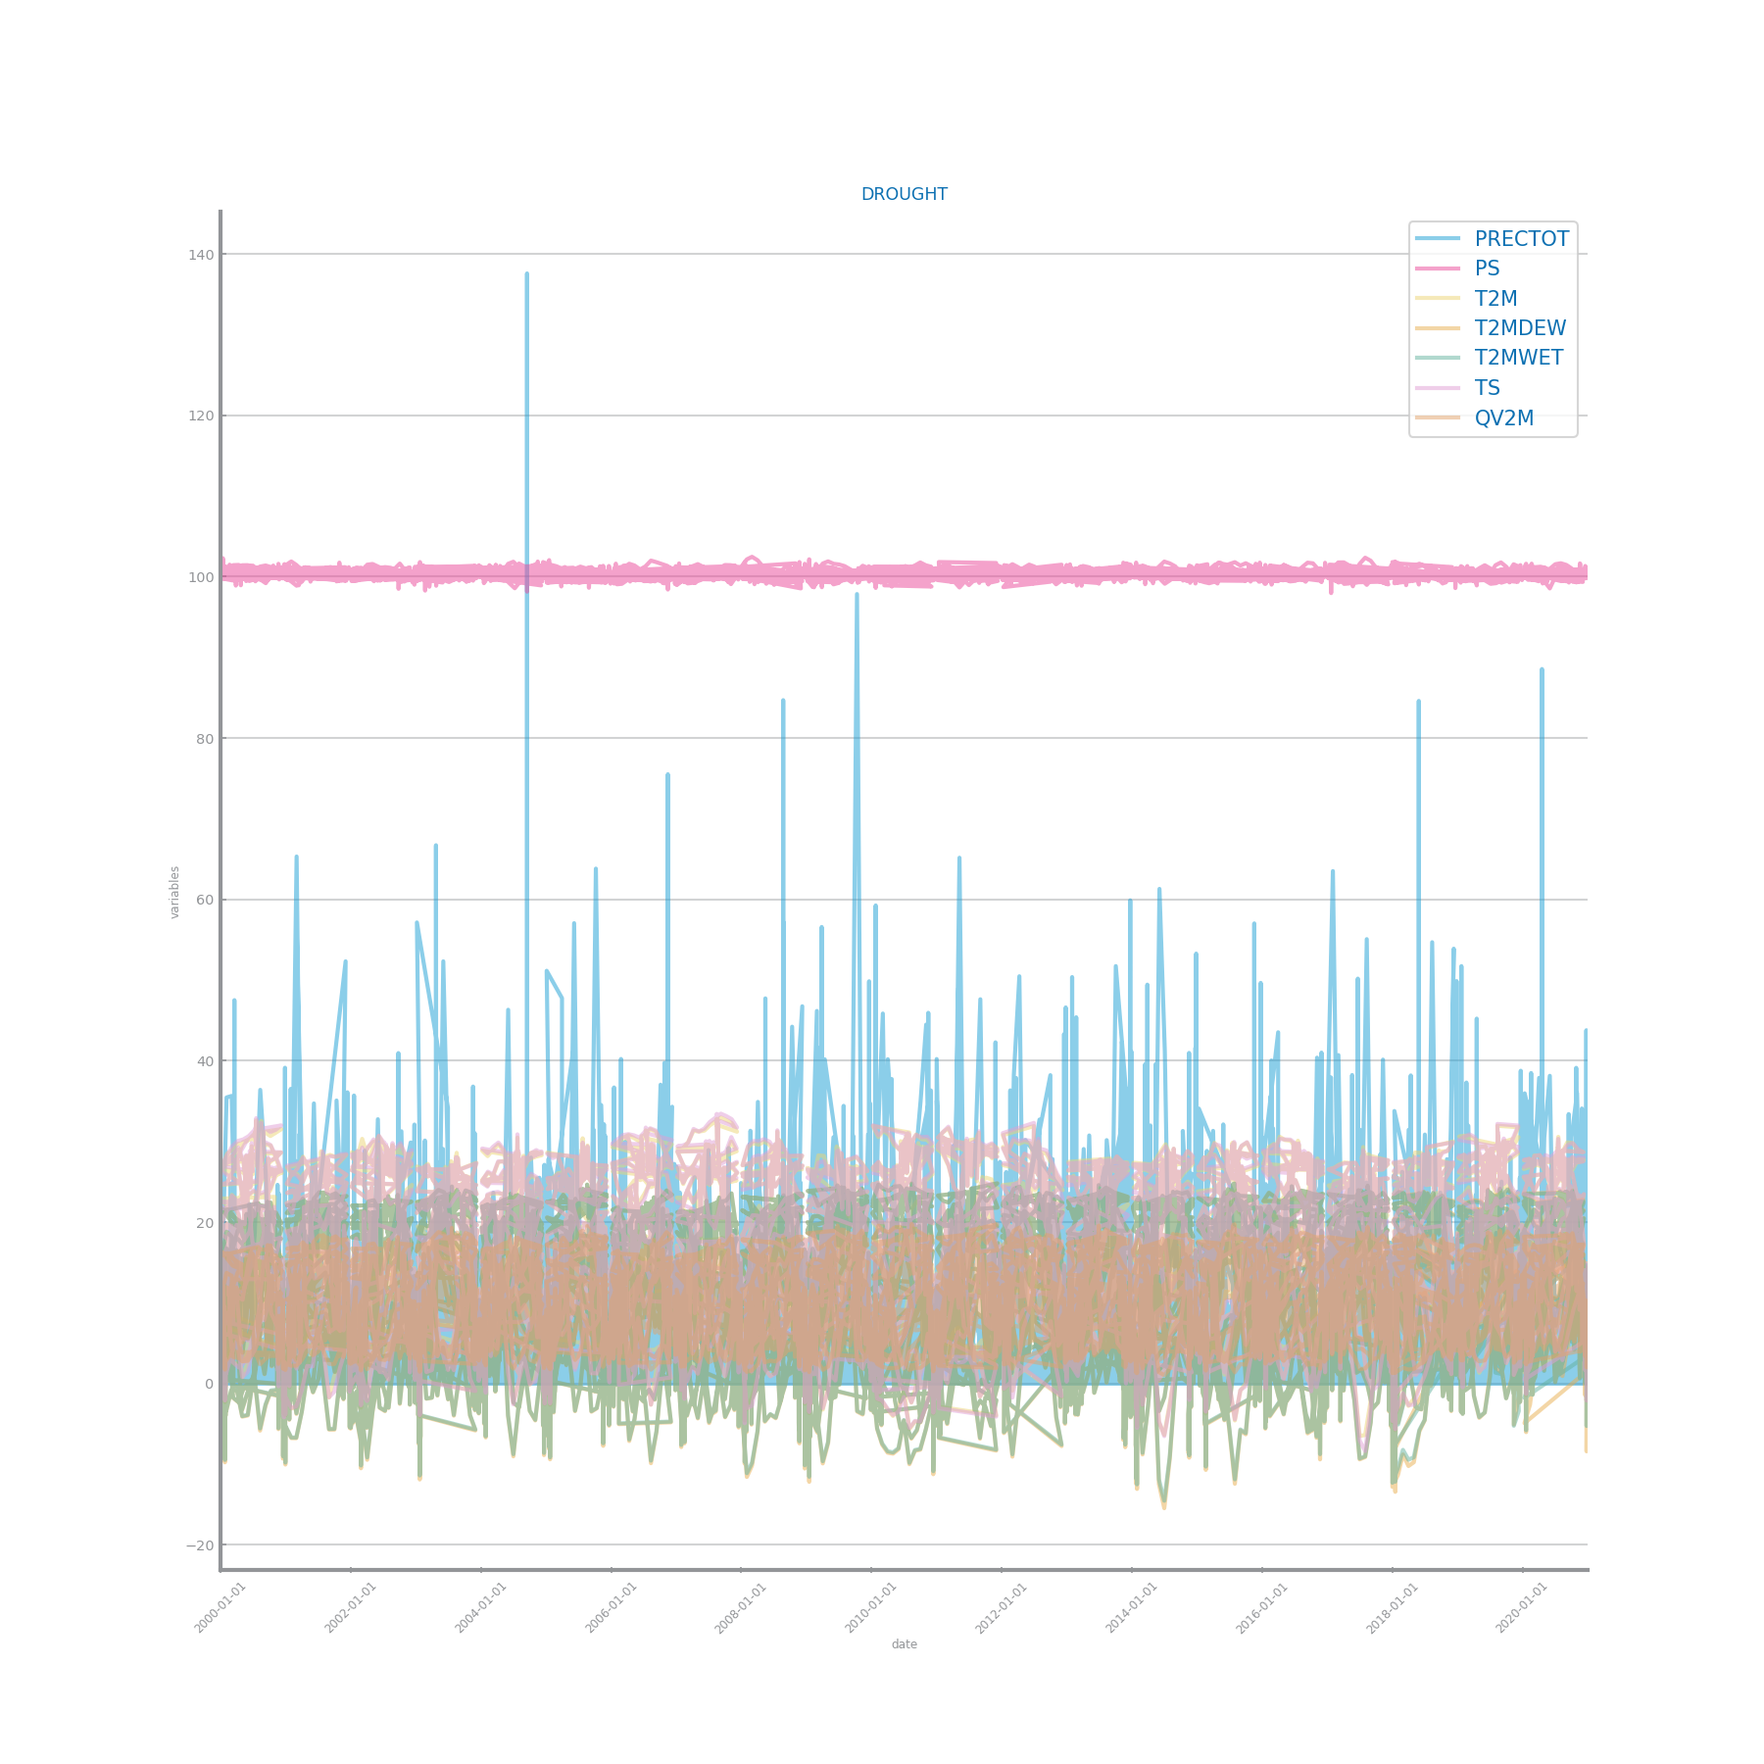
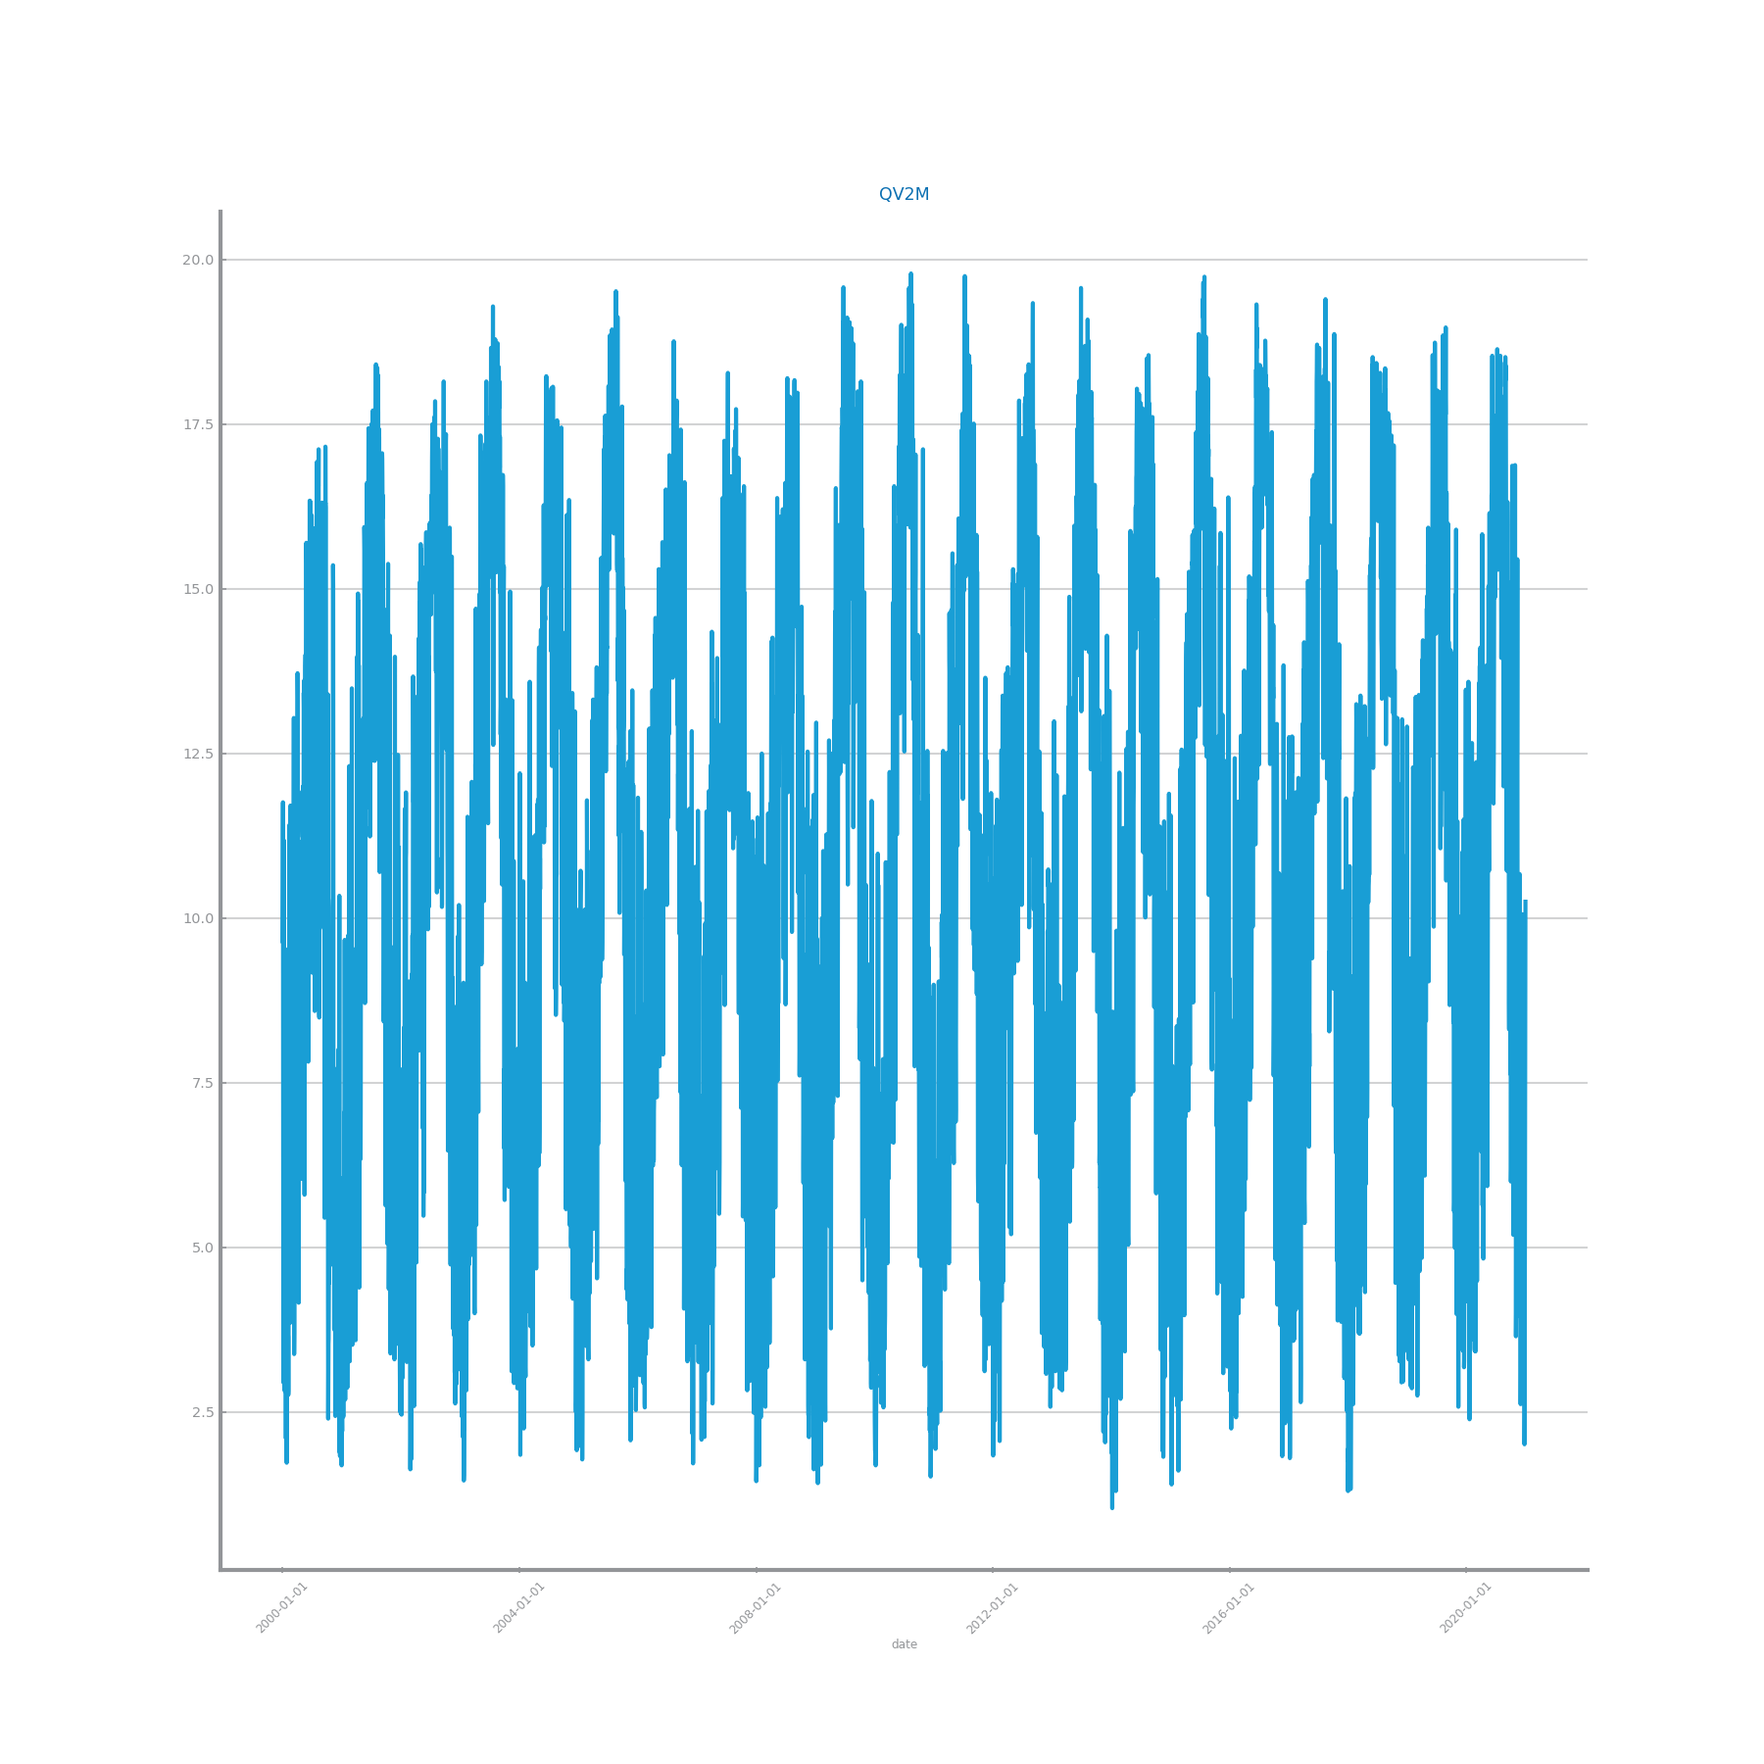
Started smoothing

diff --git a/health-forecasting/src/profiling/profiling.py b/health-forecasting/src/profiling/profiling.py
@@ -1,13 +1,18 @@
-from matplotlib import legend
 import pandas as pd
-from matplotlib.pyplot import figure, xticks, savefig, subplots, show
+from matplotlib.pyplot import figure, xticks, savefig, subplots
 from ts_functions import plot_series_multivariate, HEIGHT, plot_series
-from numpy import ones
 
 class Profiler:
 
   def __init__(self, data: pd.DataFrame) -> None:
     self.data = data
+
+    self.data = self.data.drop(columns=['Insulin'])	
+
+    index = self.data.index.to_period('D')
+    self.daily_df = self.data.copy().groupby(index).mean()
+    self.daily_df['date'] = index.drop_duplicates().to_timestamp()
+    self.daily_df.set_index('date', drop=True, inplace=True)
 
     index = self.data.index.to_period('W')
     self.week_df = self.data.copy().groupby(index).mean()
@@ -27,11 +32,11 @@ class Profiler:
 
   def explore_dimensionality(self):
     figure(figsize=(3*HEIGHT, 3*HEIGHT))
-    plot_series_multivariate(self.data, x_label='date', y_label='values', title='DROUGHT')
+    plot_series_multivariate(self.data, x_label='Time', title='Glucose')
     xticks(rotation = 45)
-    savefig('climate-forecasting/records/profiling/distribution.png')
+    savefig('health-forecasting/records/profiling/distribution.png')
 
-    f = open('climate-forecasting/records/profiling/distribution_details.txt', 'w')
+    f = open('health-forecasting/records/profiling/distribution_details.txt', 'w')
     f.write(f"Nr. Records = {self.data.shape[0]}\n")
     f.write(f"First Date = {self.data.index[0]}\n")
     f.write(f"Last Date = {self.data.index[-1]}\n")
@@ -41,22 +46,27 @@ class Profiler:
   def explore_granularity(self):
 
     figure(figsize=(3*HEIGHT, 3*HEIGHT))
-    plot_series_multivariate(self.data, title='Daily values', x_label='date', y_label='consumption')
+    plot_series_multivariate(self.daily_df, title='Hour values', x_label='date', y_label='glucose')
     xticks(rotation = 45)
-    savefig('climate-forecasting/records/profiling/granularity_day.png')
+    savefig('health-forecasting/records/profiling/granularity_hour.png')
 
     figure(figsize=(3*HEIGHT, 3*HEIGHT))
-    plot_series_multivariate(self.week_df, title='Weekly values', x_label='date', y_label='consumption')
+    plot_series_multivariate(self.daily_df, title='Daily values', x_label='date', y_label='glucose')
     xticks(rotation = 45)
-    savefig('climate-forecasting/records/profiling/granularity_week.png')
+    savefig('health-forecasting/records/profiling/granularity_day.png')
+
+    figure(figsize=(3*HEIGHT, 3*HEIGHT))
+    plot_series_multivariate(self.week_df, title='Weekly values', x_label='date', y_label='glucose')
+    xticks(rotation = 45)
+    savefig('health-forecasting/records/profiling/granularity_week.png')
     
     figure(figsize=(3*HEIGHT, HEIGHT))
-    plot_series_multivariate(self.month_df, title='Monthly values', x_label='date', y_label='consumption')
-    savefig('climate-forecasting/records/profiling/granularity_month.png')
+    plot_series_multivariate(self.month_df, title='Monthly values', x_label='date', y_label='glucose')
+    savefig('health-forecasting/records/profiling/granularity_month.png')
 
     figure(figsize=(3*HEIGHT, HEIGHT))
-    plot_series_multivariate(self.quarter_df, title='Quarterly values', x_label='date', y_label='consumption')
-    savefig('climate-forecasting/records/profiling/granularity_quaterly.png')
+    plot_series_multivariate(self.quarter_df, title='Quarterly values', x_label='date',  y_label='glucose')
+    savefig('health-forecasting/records/profiling/granularity_quaterly.png')
 
 
   def explore_count_data_types(self) -> None:
@@ -80,7 +90,7 @@ class Profiler:
     Analizes distribution through the 5-number summary and boxplots. It is doing for the most atomic time series (daily)
   """ 
   def explore_distribution_boxplots(self):
-    f = open('climate-forecasting/records/profiling/distribution_boxplot_daily_details.txt', 'w')
+    f = open('health-forecasting/records/profiling/distribution_boxplot_hourly_details.txt', 'w')
     f.write(f"Daily\n")
     f.write(str(self.data.describe()))
     f.close()
@@ -88,28 +98,25 @@ class Profiler:
 
     figure(figsize=(3*HEIGHT, 3*HEIGHT))
     self.data.boxplot()
-    savefig('climate-forecasting/records/profiling/distribution_boxplot_daily.png')
+    savefig('health-forecasting/records/profiling/distribution_boxplot_hourly.png')
 
 
   def explore_distribution_histograms(self):
-    labels = ["PRECTOT", "PS", "T2M", "T2MDEW", "T2MWET", "TS", "QV2M"]
 
-    granularity = ['daily', 'weekly', 'monthly']
+    granularity = ['hourly', 'daily', 'weekly', 'monthly']
 
-    data = [self.data, self.week_df, self.month_df]
+    data = [self.data, self.daily_df, self.week_df, self.month_df]
 
     for g in granularity:
         index = granularity.index(g)
         bins = (10, 25, 50)
         _, axs = subplots(1, len(bins), figsize=(len(bins)*HEIGHT, HEIGHT))
         for j in range(len(bins)):
-            axs[j].set_title(f'Histogram for {g} {bins[j]} bins')
-            axs[j].set_xlabel('consumption')
+            axs[j].set_title(f'Histogram for {g} Glucose {bins[j]} bins')
             axs[j].set_ylabel('Nr records')
-            axs[j].hist(data[index].values, bins=bins[j], label=labels)
-            axs[j].legend(loc="upper right", prop={'size': 5})
+            axs[j].hist(data[index].values, bins=bins[j])
     
-        savefig(f'climate-forecasting/records/profiling/distribution_histograms_{g}.png')
+        savefig(f'health-forecasting/records/profiling/distribution_histograms_{g}.png')
 
   def explore_stationary(self):
     BINS = 10
@@ -126,6 +133,6 @@ class Profiler:
     mean_line = pd.Series(line, index=dt_series.index)
     series = {'QV2M': dt_series, 'mean': mean_line}
     figure(figsize=(3*HEIGHT, HEIGHT))
-    plot_series(series, x_label='time', y_label='consumptions', title='Stationary study', show_std=True)
+    plot_series(series, x_label='Time', title='Stationary study', show_std=True,  y_label='glucose')
     
-    savefig(f'climate-forecasting/records/profiling/stationary.png')
+    savefig(f'health-forecasting/records/profiling/stationary.png')

diff --git a/climate-forecasting/src/profiling/profiling.py b/climate-forecasting/src/profiling/profiling.py
@@ -1,13 +1,20 @@
 from matplotlib import legend
 import pandas as pd
 from matplotlib.pyplot import figure, xticks, savefig, subplots, show
-from ts_functions import plot_series_multivariate, HEIGHT, plot_series
+from ts_functions import plot_series, HEIGHT, plot_series
 from numpy import ones
 
 class Profiler:
 
   def __init__(self, data: pd.DataFrame) -> None:
     self.data = data
+
+    self.data = self.data.drop(columns=['PRECTOT'])	
+    self.data = self.data.drop(columns=['PS'])	
+    self.data = self.data.drop(columns=['T2M'])	
+    self.data = self.data.drop(columns=['T2MDEW'])	
+    self.data = self.data.drop(columns=['T2MWET'])	
+    self.data = self.data.drop(columns=['TS'])	
 
     index = self.data.index.to_period('W')
     self.week_df = self.data.copy().groupby(index).mean()
@@ -27,7 +34,7 @@ class Profiler:
 
   def explore_dimensionality(self):
     figure(figsize=(3*HEIGHT, 3*HEIGHT))
-    plot_series_multivariate(self.data, x_label='date', y_label='values', title='DROUGHT')
+    plot_series(self.data, x_label='date', title='QV2M')
     xticks(rotation = 45)
     savefig('climate-forecasting/records/profiling/distribution.png')
 
@@ -41,21 +48,21 @@ class Profiler:
   def explore_granularity(self):
 
     figure(figsize=(3*HEIGHT, 3*HEIGHT))
-    plot_series_multivariate(self.data, title='Daily values', x_label='date', y_label='consumption')
+    plot_series(self.data, title='Daily values', x_label='date', y_label="QV2M")
     xticks(rotation = 45)
     savefig('climate-forecasting/records/profiling/granularity_day.png')
 
     figure(figsize=(3*HEIGHT, 3*HEIGHT))
-    plot_series_multivariate(self.week_df, title='Weekly values', x_label='date', y_label='consumption')
+    plot_series(self.week_df, title='Weekly values', x_label='date', y_label="QV2M")
     xticks(rotation = 45)
     savefig('climate-forecasting/records/profiling/granularity_week.png')
     
     figure(figsize=(3*HEIGHT, HEIGHT))
-    plot_series_multivariate(self.month_df, title='Monthly values', x_label='date', y_label='consumption')
+    plot_series(self.month_df, title='Monthly values', x_label='date', y_label="QV2M")
     savefig('climate-forecasting/records/profiling/granularity_month.png')
 
     figure(figsize=(3*HEIGHT, HEIGHT))
-    plot_series_multivariate(self.quarter_df, title='Quarterly values', x_label='date', y_label='consumption')
+    plot_series(self.quarter_df, title='Quarterly values', x_label='date', y_label="QV2M")
     savefig('climate-forecasting/records/profiling/granularity_quaterly.png')
 
 
@@ -92,7 +99,6 @@ class Profiler:
 
 
   def explore_distribution_histograms(self):
-    labels = ["PRECTOT", "PS", "T2M", "T2MDEW", "T2MWET", "TS", "QV2M"]
 
     granularity = ['daily', 'weekly', 'monthly']
 
@@ -103,11 +109,10 @@ class Profiler:
         bins = (10, 25, 50)
         _, axs = subplots(1, len(bins), figsize=(len(bins)*HEIGHT, HEIGHT))
         for j in range(len(bins)):
-            axs[j].set_title(f'Histogram for {g} {bins[j]} bins')
-            axs[j].set_xlabel('consumption')
+            axs[j].set_title(f'Histogram for {g} QV2M {bins[j]} bins')
             axs[j].set_ylabel('Nr records')
-            axs[j].hist(data[index].values, bins=bins[j], label=labels)
-            axs[j].legend(loc="upper right", prop={'size': 5})
+            axs[j].set_xlabel('QV2M')
+            axs[j].hist(data[index].values, bins=bins[j])
     
         savefig(f'climate-forecasting/records/profiling/distribution_histograms_{g}.png')
 
@@ -126,6 +131,6 @@ class Profiler:
     mean_line = pd.Series(line, index=dt_series.index)
     series = {'QV2M': dt_series, 'mean': mean_line}
     figure(figsize=(3*HEIGHT, HEIGHT))
-    plot_series(series, x_label='time', y_label='consumptions', title='Stationary study', show_std=True)
+    plot_series(series, x_label='date', title='Stationary study', show_std=True, y_label="QV2M")
     
     savefig(f'climate-forecasting/records/profiling/stationary.png')

diff --git a/health-forecasting/src/transformation/smoothing.py b/health-forecasting/src/transformation/smoothing.py
@@ -1,0 +1,80 @@
+import pandas as pd
+from matplotlib.pyplot import figure, xticks, savefig, subplots
+from ts_functions import plot_series, HEIGHT, split_dataframe, PREDICTION_MEASURES, plot_evaluation_results, plot_forecasting_series
+from sklearn import RegressorMixin
+
+
+class Smoothing:
+
+  def __init__(self, data: pd.DataFrame) -> None:
+    self.data = data
+
+    self.data = self.data.drop(columns=['Insulin'])	
+
+    self.win_sizes = [10, 50, 100, 200]
+
+
+
+  def explore_smoothing(self):
+    for size in self.win_sizes:
+        rolling = self.data.rolling(window=size)
+        smooth_df = rolling.mean()
+        figure(figsize=(3*HEIGHT, HEIGHT/2))
+        plot_series(smooth_df, title=f'Smoothing (win_size={size})', x_label='timestamp', y_label='insulin')
+        xticks(rotation = 45)
+        savefig(f'health-forecasting/records/transformation/smoothing_explore_{size}.png')
+
+
+  def split_dataframe(data, trn_pct=0.70):
+    trn_size = int(len(data) * trn_pct)
+    df_cp = data.copy()
+    train: pd.DataFrame = df_cp.iloc[:trn_size, :]
+    test: pd.DataFrame = df_cp.iloc[trn_size:]
+    return train, test
+
+  def plot_forecasting_series(trn, tst, prd_trn, prd_tst, figname: str, x_label: str = 'time', y_label:str =''):
+    _, ax = subplots(1,1,figsize=(5*HEIGHT, HEIGHT), squeeze=True)
+    ax.set_xlabel(x_label)
+    ax.set_ylabel(y_label)
+    ax.set_title(figname)
+    ax.plot(trn.index, trn, label='train', color='b')
+    ax.plot(trn.index, prd_trn, '--y', label='train prediction')
+    ax.plot(tst.index, tst, label='test', color='g')
+    ax.plot(tst.index, prd_tst, '--r', label='test prediction')
+    ax.legend(prop={'size': 5})
+
+  def persistenceRegressor():
+    train, test = split_dataframe(self.data, trn_pct=0.75)
+
+    eval_results = {}
+    measure = 'R2'
+
+    fr_mod = PersistenceRegressor()
+    fr_mod.fit(train)
+    prd_trn = fr_mod.predict(train)
+    prd_tst = fr_mod.predict(test)
+
+    eval_results['Persistence'] = PREDICTION_MEASURES[measure](test.values, prd_tst)
+    print(eval_results)
+
+    plot_evaluation_results(train.values, prd_trn, test.values, prd_tst, f'health-forecasting/records/transformation/smoothing_persistence_eval.png')
+    plot_forecasting_series(train, test, prd_trn, prd_tst, f'health-forecasting/records/transformation/smoothing_persistence_plots.png', x_label='date', y_label='glucose')
+
+
+
+
+
+class PersistenceRegressor (RegressorMixin):
+    def __init__(self):
+        super().__init__()
+        self.last = 0
+
+    def fit(self, X: pd.DataFrame):
+        self.last = X.iloc[-1,0]
+        print(self.last)
+
+    def predict(self, X: pd.DataFrame):
+        prd = X.shift().values
+        prd[0] = self.last
+        return prd
+

diff --git a/climate-forecasting/src/main.py b/climate-forecasting/src/main.py
@@ -12,24 +12,25 @@ INPUT_FILE_PATH = 'climate-forecasting/resources/data/drought.forecasting_datase
 if __name__ == "__main__":
 
   # ----------------------------- 1º Phase -> Data profiling ----------------------------- #
-  # data = read_csv(INPUT_FILE_PATH, index_col='date', sep=',', decimal='.', parse_dates=True, infer_datetime_format=True)
+  data = read_csv(INPUT_FILE_PATH, index_col='date', sep=',', decimal='.', parse_dates=True, infer_datetime_format=True, dayfirst= True)
 
-  # profiler = Profiler(data)
-  # profiler.explore_dimensionality()
-  # profiler.explore_granularity()
-  # profiler.explore_distribution_boxplots()
-  # profiler.explore_distribution_histograms()
+  profiler = Profiler(data)
+  profiler.explore_dimensionality()
+  profiler.explore_granularity()
+  profiler.explore_distribution_boxplots()
+  profiler.explore_distribution_histograms()
+  profiler.explore_stationary()
   # profiler.explore_count_data_types()
 
   # ----------------------------- 2º Phase -> Data preparation ----------------------------- #
   
-  data = read_csv(INPUT_FILE_PATH, index_col='date', sep=',', decimal='.', parse_dates=True, infer_datetime_format=True)
+  # data = read_csv(INPUT_FILE_PATH, index_col='date', sep=',', decimal='.', parse_dates=True, infer_datetime_format=True)
 
-  ## As shown by explore_count_data_types, there are no missing values for this dataset
+  # ## As shown by explore_count_data_types, there are no missing values for this dataset
   
-  scaling = Scaling(data)
-  data = scaling.compute_scale()
+  # scaling = Scaling(data)
+  # data = scaling.compute_scale()
 
-  differentiation = Differentiation(data)
-  data = differentiation.explore_differentiation()
+  # differentiation = Differentiation(data)
+  # data = differentiation.explore_differentiation()
 

diff --git a/health-forecasting/src/main.py b/health-forecasting/src/main.py
@@ -15,13 +15,17 @@ if __name__ == "__main__":
     # ----------------------------- 1º Phase -> Data profiling ----------------------------- #
     data = read_csv(INPUT_FILE_PATH, index_col='Date', sep=',', decimal='.', parse_dates=True, infer_datetime_format=True, dayfirst=True)
 
-    #  profiler = Profiler(data)
-    #  profiler.explore_count_data_types()
+    profiler = Profiler(data)
+    profiler.explore_dimensionality()
+    profiler.explore_granularity()
+    profiler.explore_distribution_boxplots()
+    profiler.explore_distribution_histograms()
+    profiler.explore_stationary()
 
     # ----------------------------- 2º Phase -> Data preparation ----------------------------- #
-    mvi = MVImputation(data)
-    mvi.explore_mv_imputation()
-    data = mvi.compute_mv_imputation("approach_2")
+    # mvi = MVImputation(data)
+    # mvi.explore_mv_imputation()
+    # data = mvi.compute_mv_imputation("approach_2")
 
     ## Does it even make sense to apply scaling?
     # scaling = Scaling(data)
